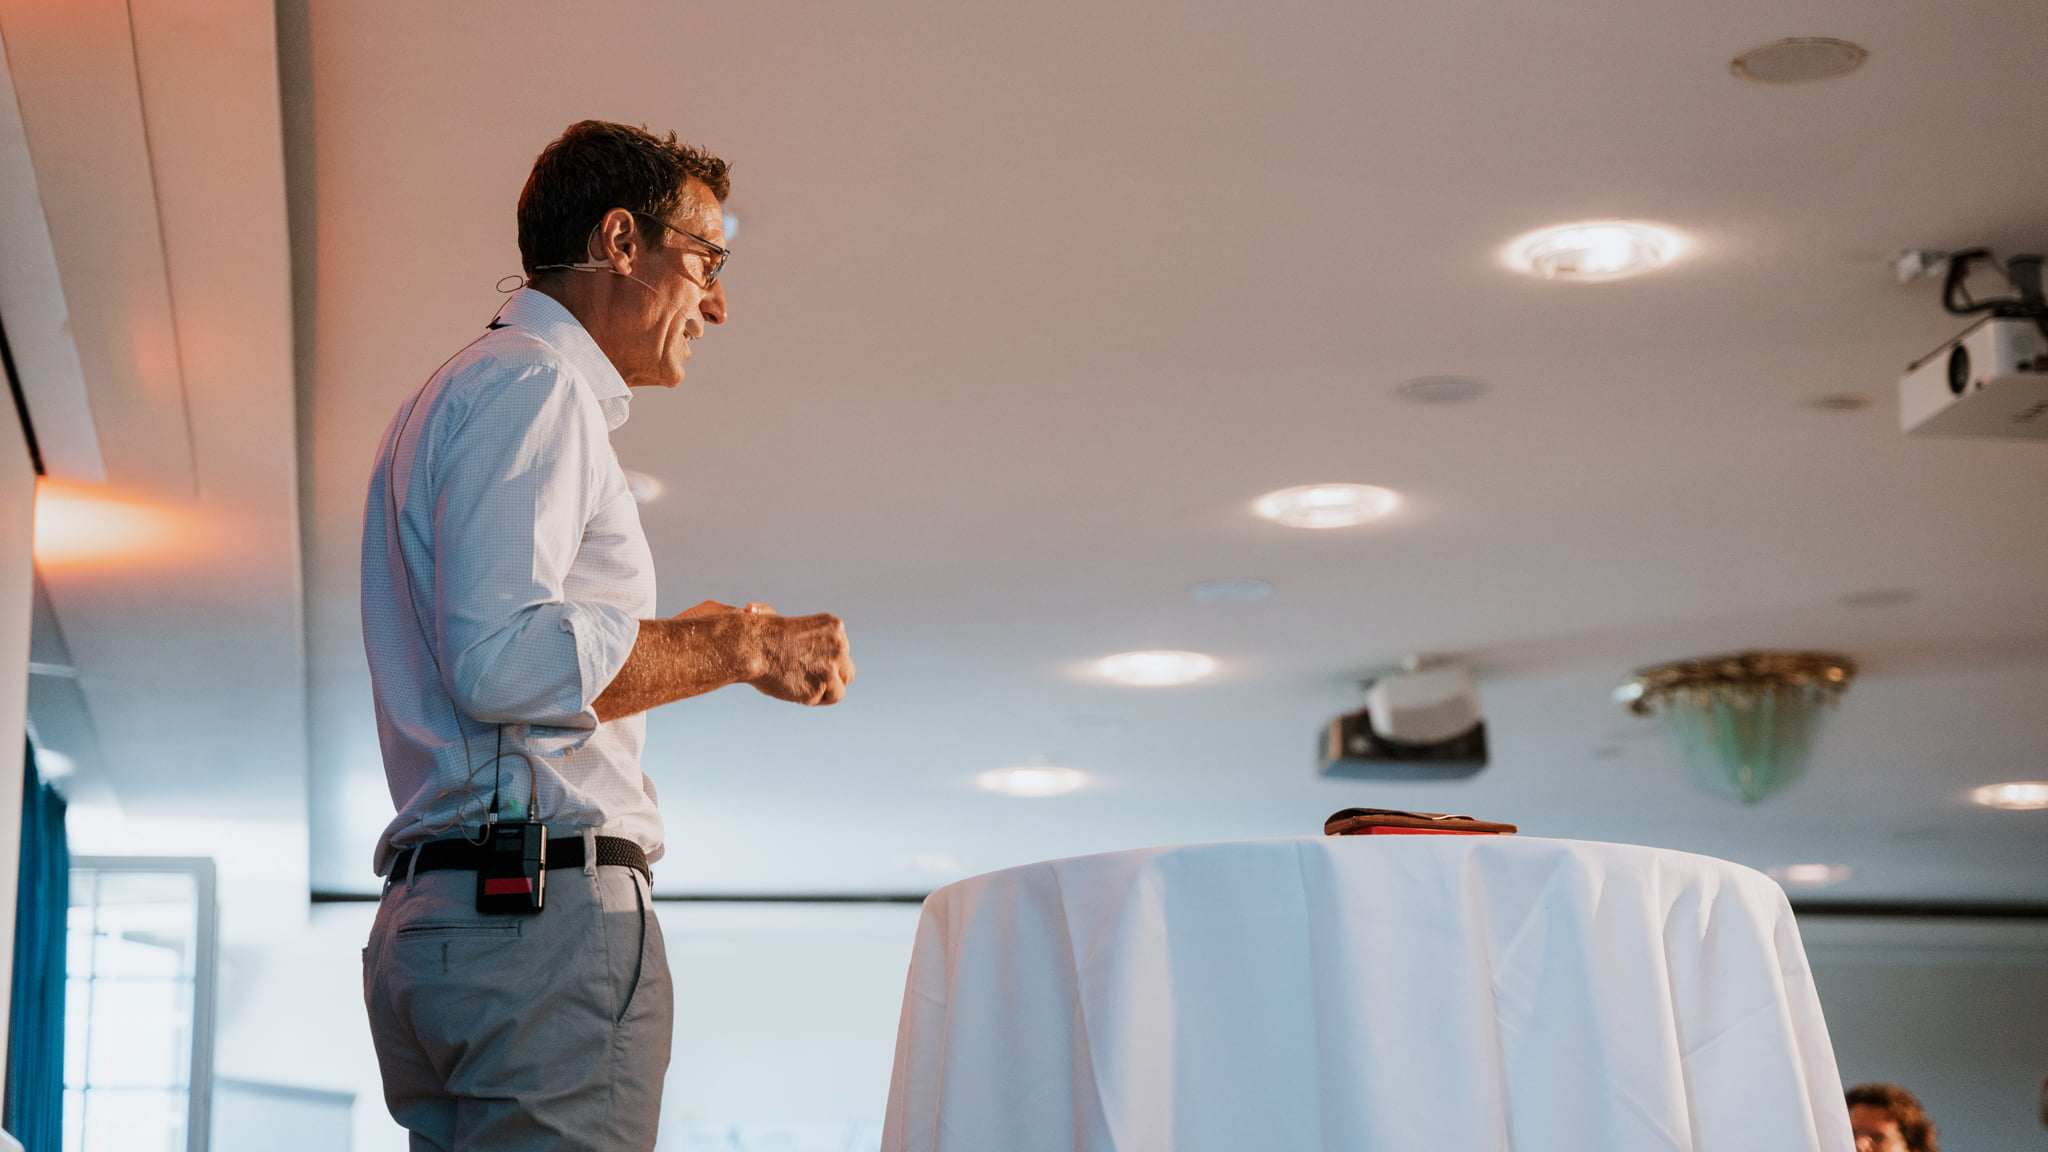
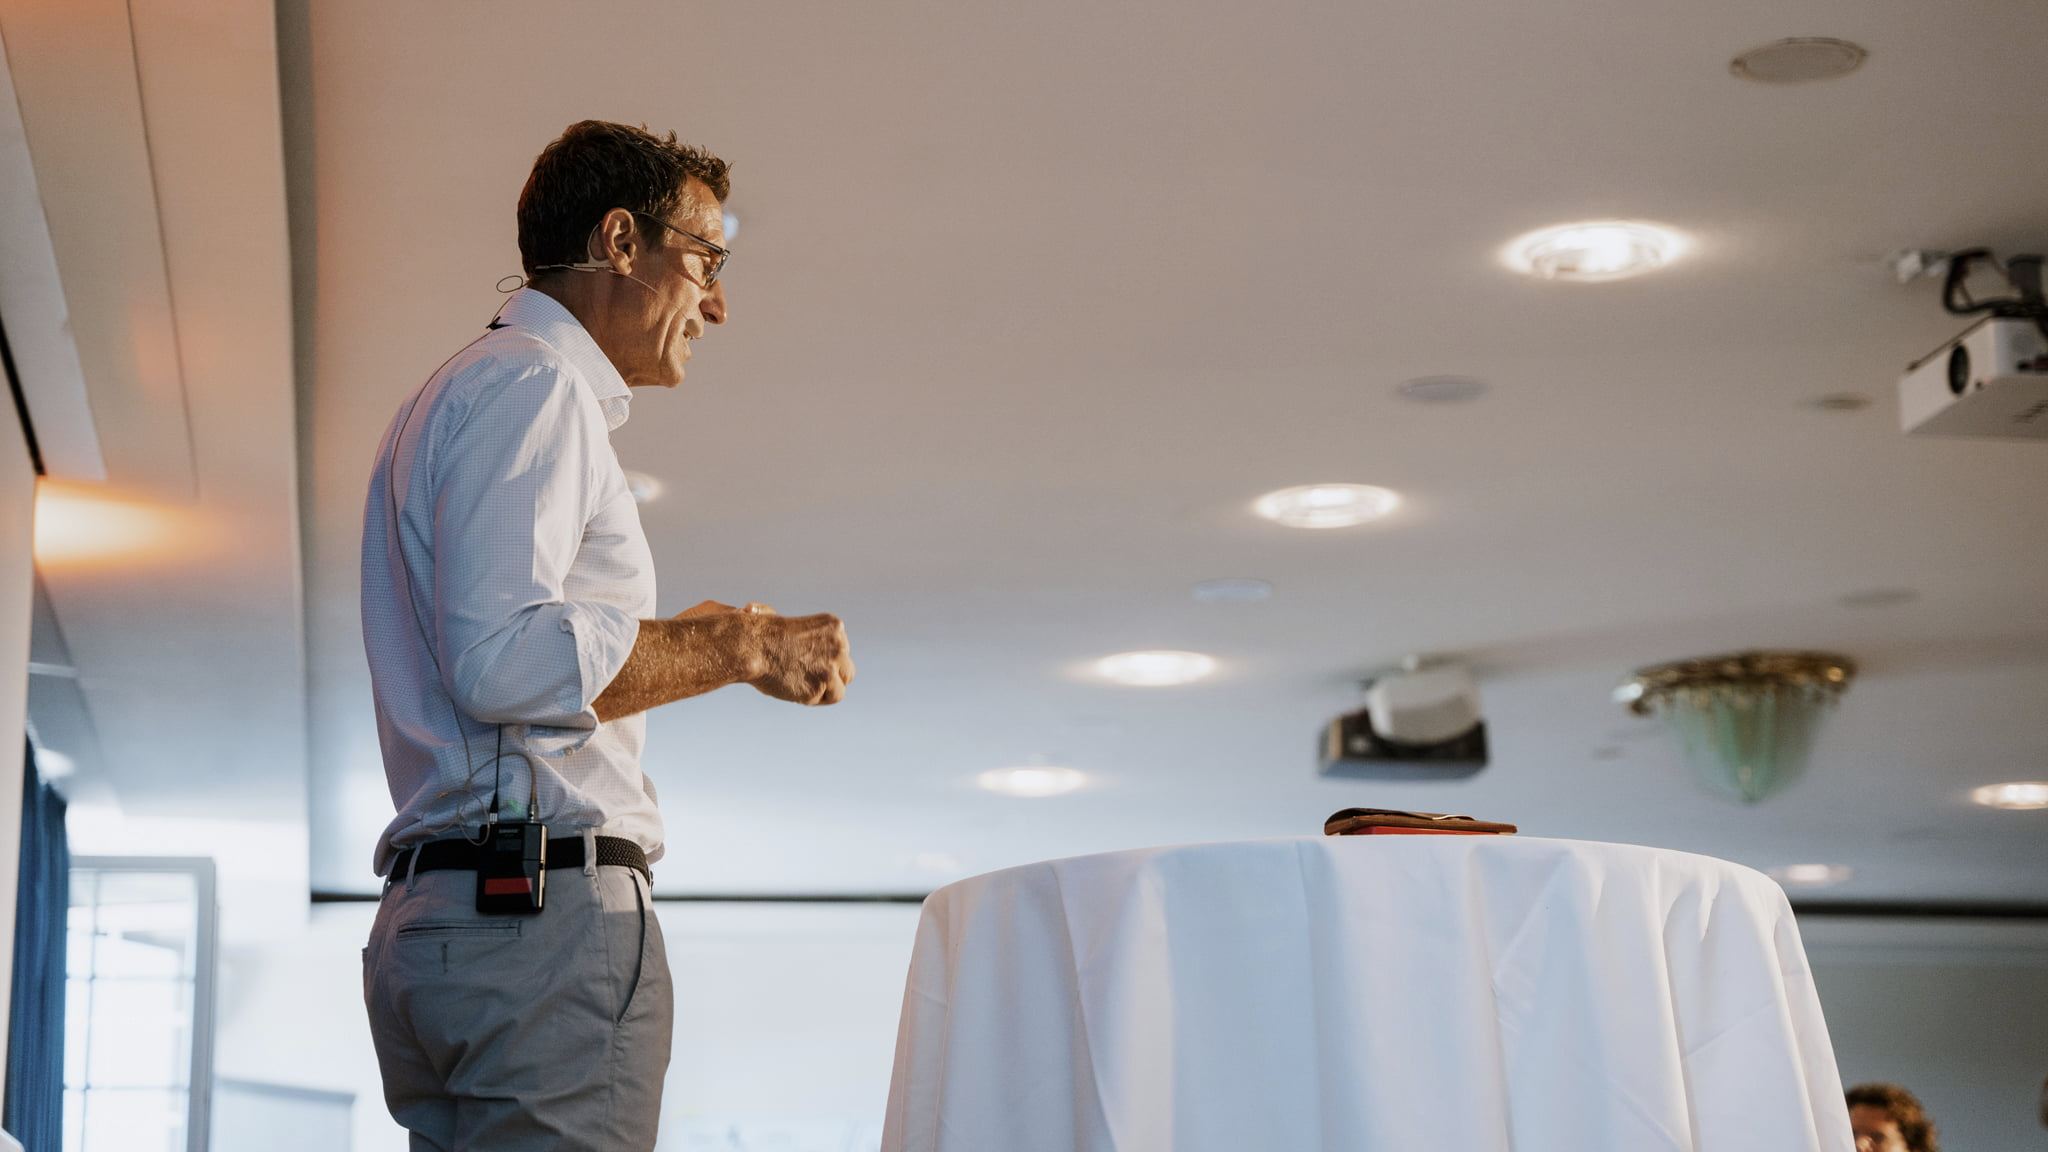
Increased quality a little

Changed region(s): [[0.0, 0.6875, 0.0312, 1.0], [0.6875, 0.7188, 0.7188, 0.75]]

diff --git a/components/Templates/BMWOpen/Gallery.jsx b/components/Templates/BMWOpen/Gallery.jsx
@@ -5,7 +5,7 @@ const Gallery = () => {
         <div className="relative">
           <img
             className="min-h-[205px] w-full object-cover"
-            src="/images/photos/1.jpg"
+            src="/images/photos/patrik-in-bmw-open.jpg"
             width="1216"
             height="684"
             alt=""
@@ -20,7 +20,7 @@ const Gallery = () => {
               muted
               loop
               alt=""
-              src="/images/photos/2.jpg"
+              src="/images/photos/patrik-as-speaker-bmw-open.jpg"
             />
           </div>
           <div className="mt-3 md:mt-0 md:w-1/2">
@@ -31,7 +31,7 @@ const Gallery = () => {
               muted
               loop
               alt=""
-              src="/images/photos/3.jpg"
+              src="/images/photos/patrik-in-bmw-open-stage.jpg"
             />
           </div>
         </div>
@@ -44,7 +44,7 @@ const Gallery = () => {
               muted
               loop
               alt=""
-              src="/images/photos/4.jpg"
+              src="/images/photos/patrik.jpg"
             />
           </div>
           <div className="flex-1">
@@ -55,7 +55,7 @@ const Gallery = () => {
               muted
               loop
               alt=""
-              src="/images/photos/5.jpg"
+              src="/images/photos/patrik-collaborating.jpg"
             />
           </div>
         </div>
